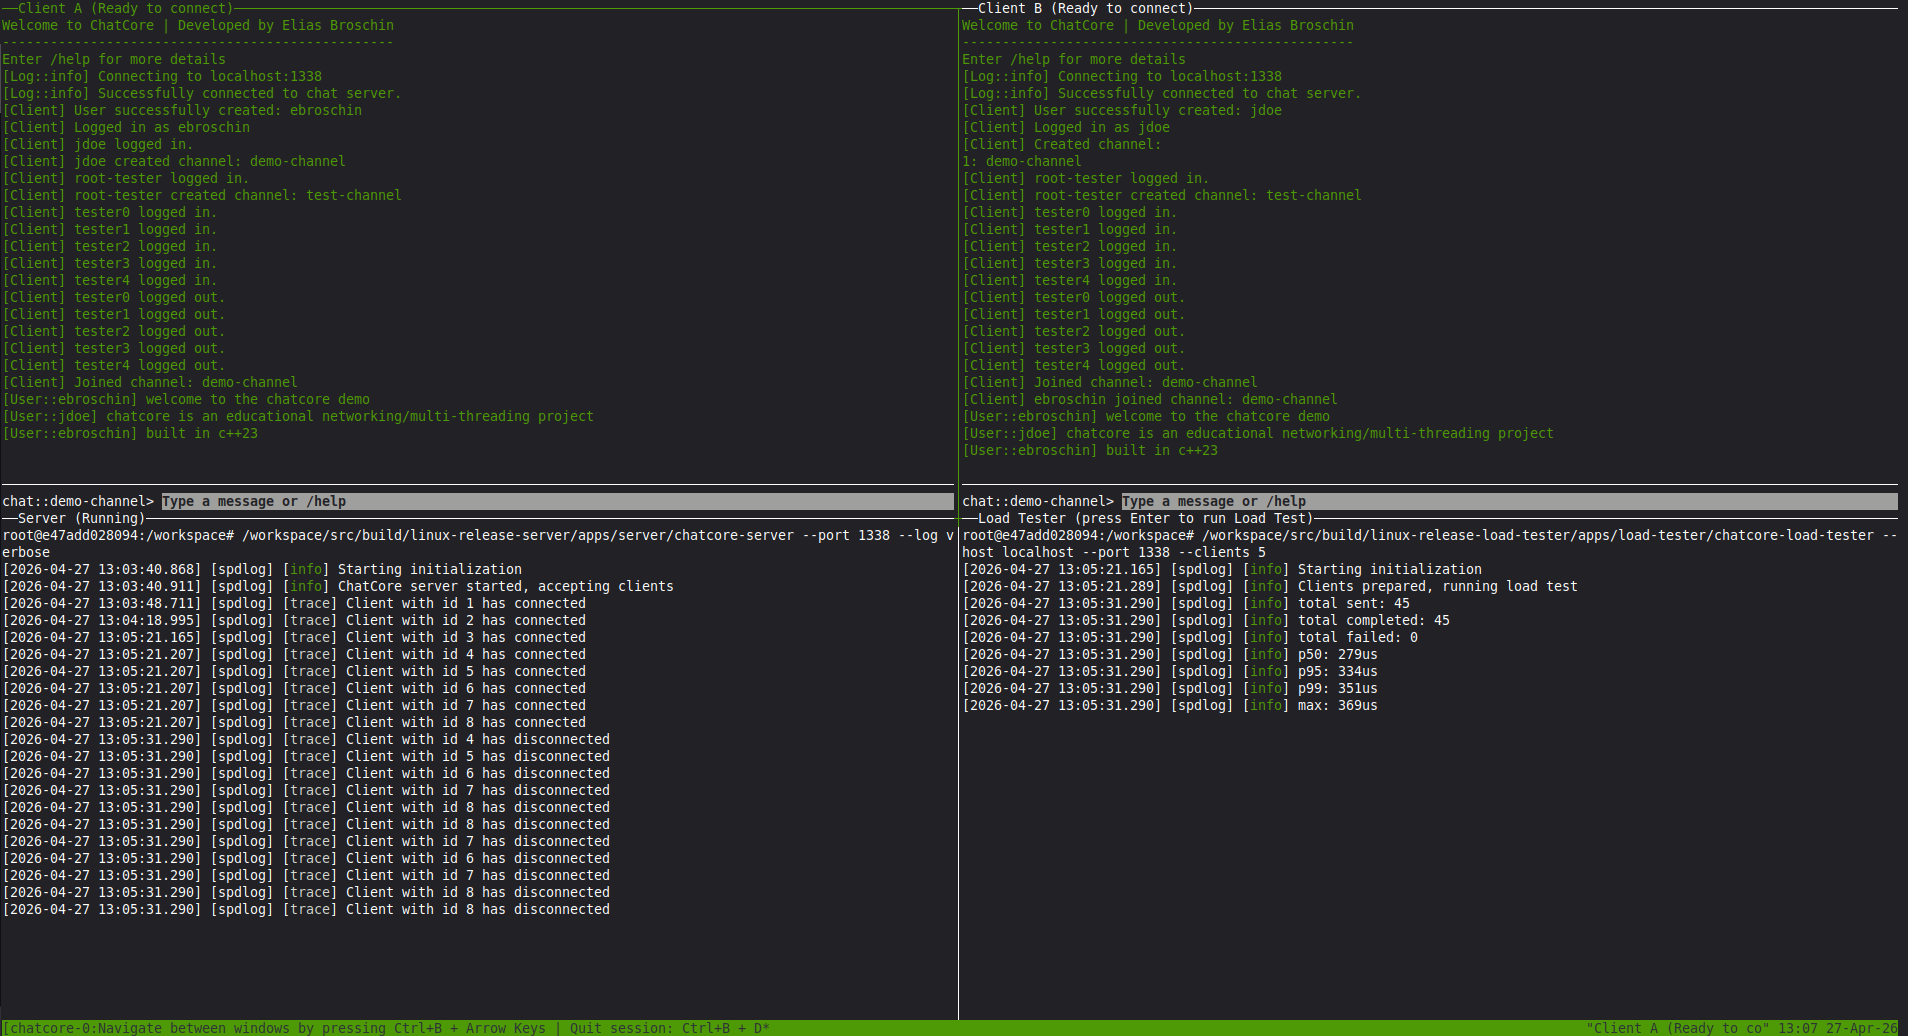
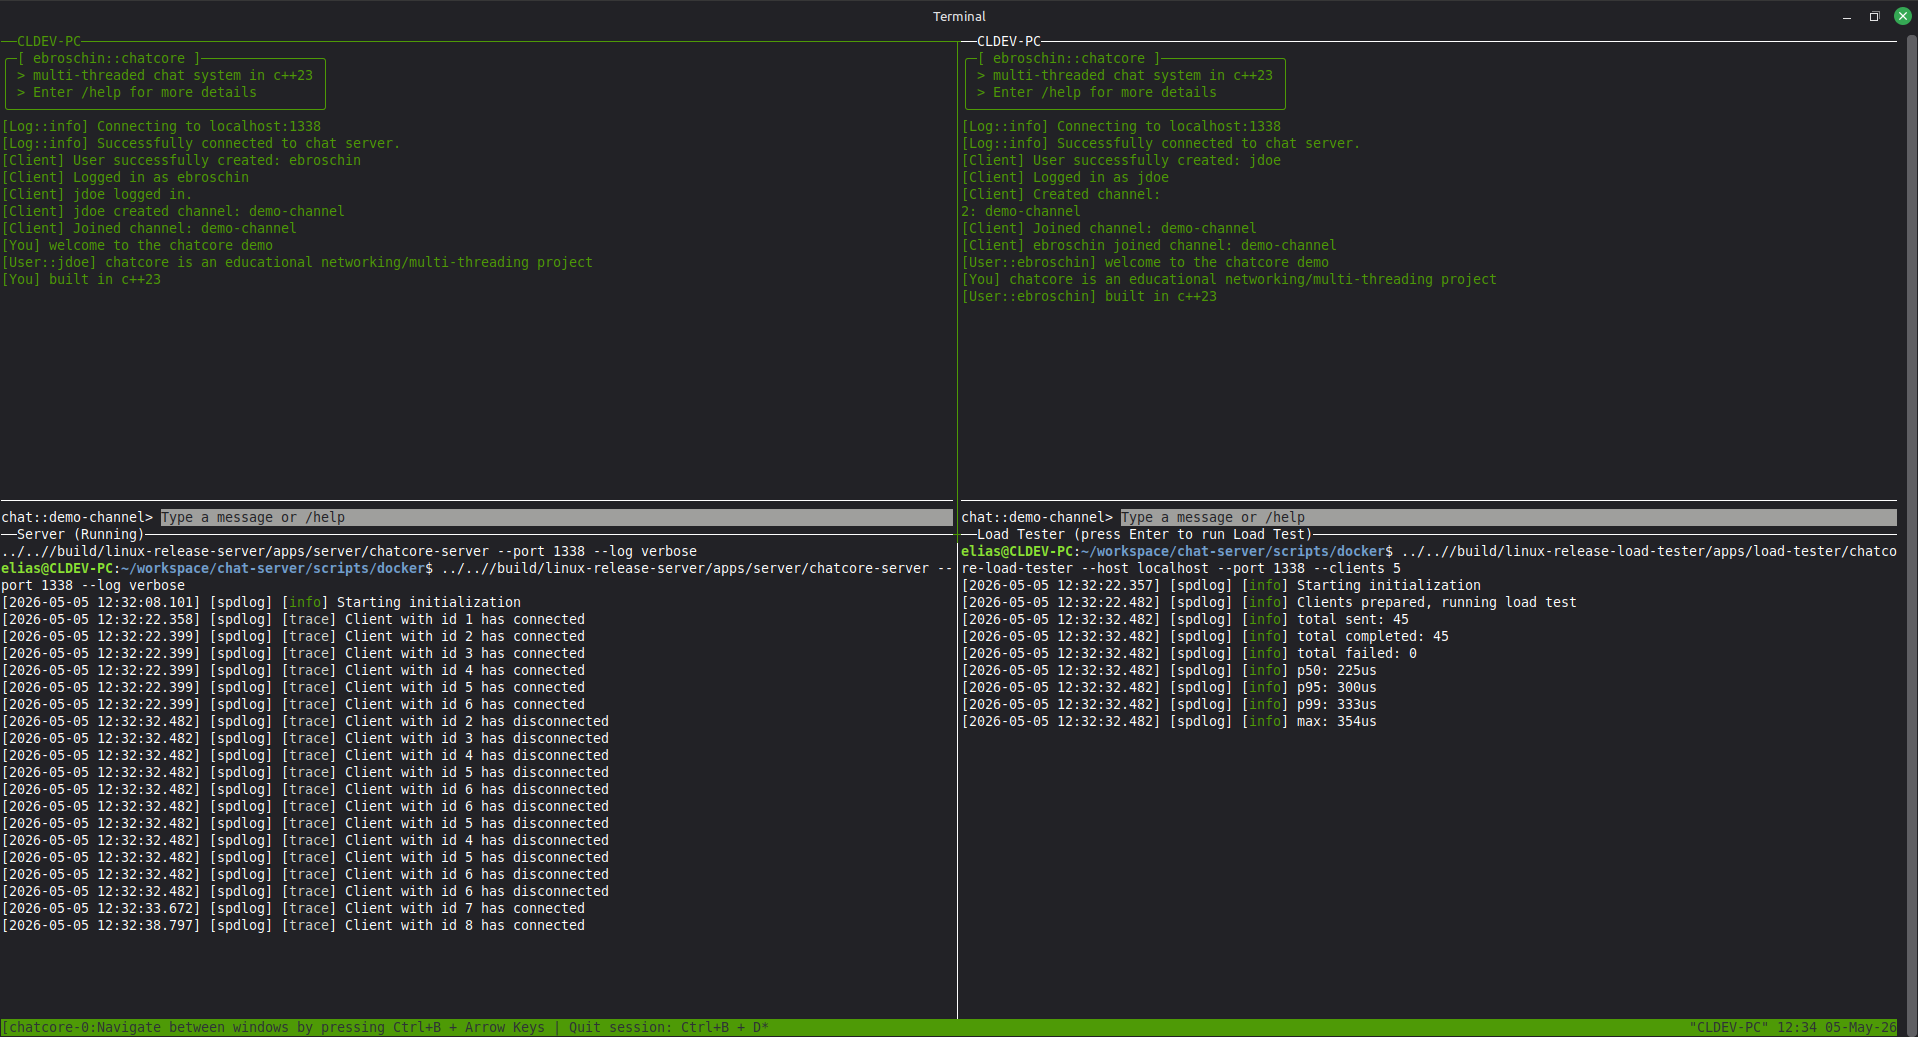
chore: adjust README and docker demo files

diff --git a/README.md b/README.md
@@ -1,11 +1,11 @@
 # chatcore | Multi-Threaded Chat System in C++23
 
-[![CI Builds and Tests (Linux, Windows)](https://github.com/PIXCLDEV/ChatCore/actions/workflows/ci.yml/badge.svg)](https://github.com/PIXCLDEV/ChatCore/actions/workflows/ci.yml)
+[![CI Builds and Tests (Linux, Windows)](https://github.com/ebroschin/chatcore/actions/workflows/ci.yml/badge.svg)](https://github.com/PIXCLDEV/ChatCore/actions/workflows/ci.yml)
 
 `chatcore` is an educational networking/multi-threading project built in C++23. The codebase provides the core architecture for:
 - a TCP server with a custom protocol
-- a client application which implements said protocol
-- and a load tester to evaluate the performance and correctness of the server under load.
+- a client application which implements the custom protocol
+- a load tester to evaluate the performance and correctness of the server under load
 
 The project is built and tested on Linux and Windows in CI, compiles with strict warning flags, and includes unit tests (gtest).
 
@@ -13,10 +13,50 @@ The project is built and tested on Linux and Windows in CI, compiles with strict
 ![Demo screenshot](docs/images/demo.png)
 The source code can be built and run using docker, including a `demo.sh` script to start two clients, the server and the load tester in a tmux session.
 ### Linux
-TBD docker command once published
+TBD docker instruction
 
 ### Windows
-TBD docker command once published
+TBD docker instruction
+
+### Manual Build (Linux)
+Manual build instructions are currently provided for Linux only.
+Windows compatibility is validated in CI and via Visual Studio builds with MSVC.
+
+#### Install required dependencies
+
+```bash
+apt-get update
+apt-get install -y \
+  wget curl gnupg lsb-release ca-certificates git unzip zip \
+  build-essential pkg-config \
+  autoconf automake libtool m4 gawk gettext texinfo tmux \
+  software-properties-common
+wget https://apt.llvm.org/llvm.sh
+chmod +x llvm.sh
+./llvm.sh 20
+apt-get install -y clang-20 clang++-20 ninja-build cmake clang-tidy-20
+```
+
+#### Clone and Build
+
+```bash
+git clone --recurse-submodules https://github.com/ebroschin/chatcore.git
+cd chatcore
+./scripts/linux/build-all.sh
+```
+
+#### Run Demo (tmux session)
+```bash
+./scripts/docker/demo.sh
+```
+
+#### Run individual applications
+
+```bash
+./build/linux-release-server/apps/server/chatcore-server --ip 0.0.0.0 --port 1338 --db sqlite.db --log info
+./build/linux-release-client/apps/client/chatcore-client --ip localhost --port 1338 --log info
+./build/linux-release-load-tester/apps/load-tester/chatcore-load-tester --ip localhost --port 1338 --clients 100 --log info
+```
 
 ## Features
 
